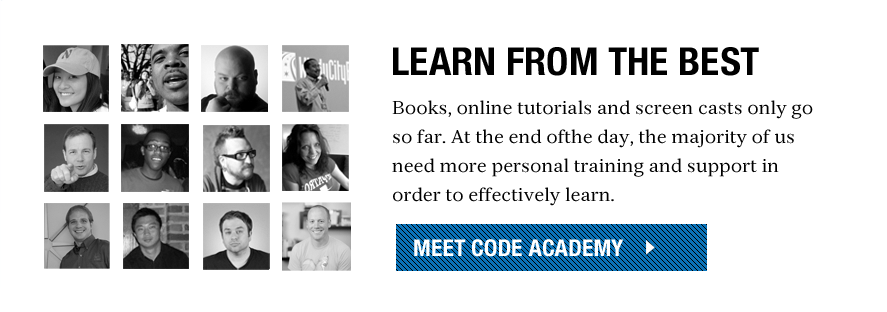
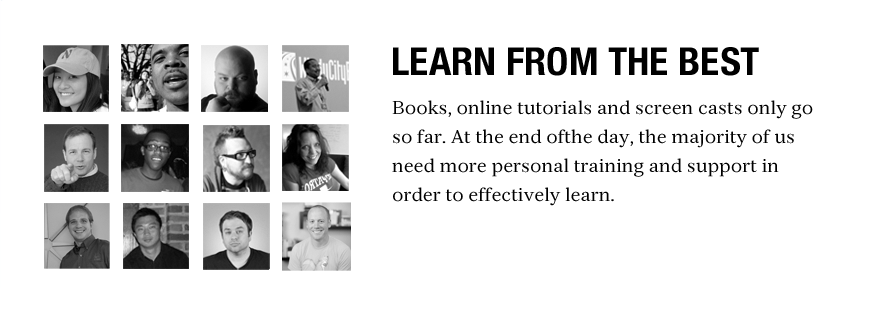
added meet code academy button to the learn from the best preview on the home page

Changed region(s): [[0.4262, 0.6923, 0.8219, 0.8942]]

diff --git a/public/stylesheets/styles.css b/public/stylesheets/styles.css
@@ -345,7 +345,25 @@ nav {
   height:400px;
   padding:20px 0 0 0;
 }
-  .learn_best.inner {}
+  .learn_best.inner {
+	margin: 0 auto;
+	position: relative;
+}
+
+	#people_preview {
+		clear: both;
+		margin-left: 25px;
+		margin-top: 45px;
+		position: relative;
+	}
+	#meet_team_button {
+		bottom: 97px;
+		clear: both;
+		left: 99px;
+		margin: 0 auto;
+		position: relative;
+		width: 767px;
+	}
 
 .Fr {
 	float: right;
